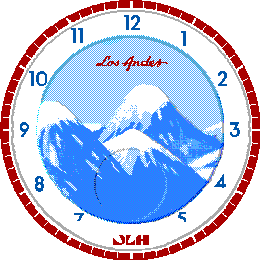
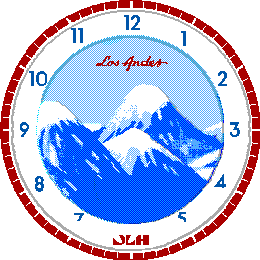
mod y clay config

Changed region(s): [[0.1538, 0.4, 0.8615, 0.8615], [0.8, 0.6154, 0.8308, 0.6462]]

diff --git a/src/pkjs/index.js b/src/pkjs/index.js
@@ -1,0 +1,3 @@
+var Clay = require('pebble-clay');
+var clayConfig = require('./config.json');
+var clay = new Clay(clayConfig);

diff --git a/src/c/main.c b/src/c/main.c
@@ -11,18 +11,23 @@ static Window  *s_window;
 static Layer   *s_canvas;
 static GPoint   s_center;
 static GBitmap *s_background;
+static GBitmap *s_indent;
 static GBitmap *s_battery_icon;
 
 // Fixed pivot for the seconds hand / battery display (not the watch center)
 #ifdef PBL_PLATFORM_EMERY
 static const GPoint SEC_CENTER = {100, 155};
+#elif defined(PBL_PLATFORM_BASALT)
+static const GPoint SEC_CENTER = {72, 136};
 #else
 static const GPoint SEC_CENTER = {130, 184};
 #endif
 
-// true  → seconds hand + tick marks
-// false → battery indicator (9 segments, 3 zones: red / dark-blue / white)
-static bool s_display_seconds = true;
+// 0 → seconds hand + tick marks
+// 1 → battery indicator
+// 2 → don't show (no subdial, no indent)
+#define PERSIST_KEY_SECONDS_FACE 1
+static int s_seconds_face_mode = 0;
 
 // Shake animation: hour does 1 revolution, minute does 3, over 6 seconds
 #define ANIM_DURATION_MS 3000
@@ -51,6 +56,15 @@ static GPoint s_hour_body_pts[] = {
 static GPoint s_hour_tip_pts[] = {
     { 6, -59},   { 3, -63},   { 2, -65},   {-2, -65},   {-3, -63},   {-6, -59},
 };
+#elif defined(PBL_PLATFORM_BASALT)
+// tip at -52, same width as minute hand (±4 body, ±2 base)
+static GPoint s_hour_body_pts[] = {
+    { 2,  -9},   { 4, -47},   {-4, -47},   {-2,  -9},
+    {-2,   9},   {-2,  20},   { 2,  20},   { 2,   9},
+};
+static GPoint s_hour_tip_pts[] = {
+    { 4, -47},   { 2, -50},   { 1, -52},   {-1, -52},   {-2, -50},   {-4, -47},
+};
 #else
 static GPoint s_hour_body_pts[] = {
     { 3,  -9},   { 5, -72},   {-5, -72},   {-3,  -9},
@@ -73,6 +87,15 @@ static GPoint s_min_body_pts[] = {
 };
 static GPoint s_min_tip_pts[] = {
     { 4, -82},   { 2, -87},   { 1, -90},   {-1, -90},   {-2, -87},   {-4, -82},
+};
+#elif defined(PBL_PLATFORM_BASALT)
+// tip at -72 → touches lateral border (72px from center)
+static GPoint s_min_body_pts[] = {
+    { 2,  -5},   { 4, -66},   {-4, -66},   {-2,  -5},
+    {-2,   5},   {-2,  16},   { 2,  16},   { 2,   5},
+};
+static GPoint s_min_tip_pts[] = {
+    { 4, -66},   { 2, -70},   { 1, -72},   {-1, -72},   {-2, -70},   {-4, -66},
 };
 #else
 static GPoint s_min_body_pts[] = {
@@ -165,14 +188,24 @@ static void draw_hour_hand(GContext *ctx, int32_t angle) {
         { 3, -9}, { 5,-59},   {-5,-59}, {-3, -9},
         {-3,  9}, {-3, 20},   {-3, 20}, { 3, 20},   { 3, 20}, { 3,  9},
     };
+#elif defined(PBL_PLATFORM_BASALT)
+    static const GPoint segs[] = {
+        { 2, -9}, { 4,-47},   {-4,-47}, {-2, -9},
+        {-2,  9}, {-2, 20},   {-2, 20}, { 2, 20},   { 2, 20}, { 2,  9},
+    };
 #else
     static const GPoint segs[] = {
         { 3, -9}, { 5,-72},   {-5,-72}, {-3, -9},
         {-3,  9}, {-3, 20},   {-3, 20}, { 3, 20},   { 3, 20}, { 3,  9},
     };
 #endif
+#ifdef PBL_PLATFORM_BASALT
+    outline_hand(ctx, angle, 7, 17 * TRIG_MAX_ANGLE / 360, segs, ARRAY_LENGTH(segs));
+    fill_hand(ctx, angle, s_hour_body, s_hour_tip, 7);
+#else
     outline_hand(ctx, angle, 10, 17 * TRIG_MAX_ANGLE / 360, segs, ARRAY_LENGTH(segs));
     fill_hand(ctx, angle, s_hour_body, s_hour_tip, 10);
+#endif
 }
 
 static void draw_min_hand(GContext *ctx, int32_t angle) {
@@ -182,6 +215,12 @@ static void draw_min_hand(GContext *ctx, int32_t angle) {
         {-2,  5}, {-2,  16},  {-2, 16}, { 2,  16},  { 2, 16}, { 2,  5},
     };
     outline_hand(ctx, angle, 8, 15 * TRIG_MAX_ANGLE / 360, segs, ARRAY_LENGTH(segs));
+#elif defined(PBL_PLATFORM_BASALT)
+    static const GPoint segs[] = {
+        { 2, -5}, { 4, -66},  {-4, -66},{-2,  -5},
+        {-2,  5}, {-2,  16},  {-2, 16}, { 2,  16},  { 2, 16}, { 2,  5},
+    };
+    outline_hand(ctx, angle, 5, 15 * TRIG_MAX_ANGLE / 360, segs, ARRAY_LENGTH(segs));
 #else
     static const GPoint segs[] = {
         { 3, -7}, { 5,-109},  {-5,-109},{-3,  -7},
@@ -189,17 +228,45 @@ static void draw_min_hand(GContext *ctx, int32_t angle) {
     };
     outline_hand(ctx, angle, 8, 22 * TRIG_MAX_ANGLE / 360, segs, ARRAY_LENGTH(segs));
 #endif
+#ifdef PBL_PLATFORM_BASALT
+    fill_hand(ctx, angle, s_min_body, s_min_tip, 5);
+#else
     fill_hand(ctx, angle, s_min_body, s_min_tip, 8);
+#endif
 }
 
 // ── Seconds hand ────────────────────────────────────────────────────────────
 
 static void draw_sec_hand(GContext *ctx, int32_t angle) {
+#ifdef PBL_PLATFORM_BASALT
+    GPoint cw  = rotate_at(GPoint(0,   5), angle, SEC_CENTER);
+    GPoint mid = rotate_at(GPoint(0, -17), angle, SEC_CENTER);
+    GPoint tip = rotate_at(GPoint(0, -19), angle, SEC_CENTER);
+
+    graphics_context_set_stroke_color(ctx, GColorLightGray);
+    graphics_context_set_stroke_width(ctx, 3);
+    graphics_draw_line(ctx, SEC_CENTER, cw);
+    graphics_context_set_stroke_width(ctx, 2);
+    graphics_draw_line(ctx, SEC_CENTER, mid);
+    graphics_draw_line(ctx, mid, tip);
+
+    graphics_context_set_stroke_color(ctx, GColorWhite);
+    graphics_context_set_stroke_width(ctx, 2);
+    graphics_draw_line(ctx, SEC_CENTER, cw);
+    graphics_context_set_stroke_width(ctx, 1);
+    graphics_draw_line(ctx, SEC_CENTER, mid);
+    graphics_draw_line(ctx, mid, tip);
+
+    graphics_context_set_fill_color(ctx, GColorWhite);
+    graphics_fill_circle(ctx, SEC_CENTER, 2);
+    graphics_context_set_fill_color(ctx, GColorDarkGray);
+    graphics_fill_circle(ctx, SEC_CENTER, 1);
+#else
     GPoint cw  = rotate_at(GPoint(0,   9), angle, SEC_CENTER);
     GPoint mid = rotate_at(GPoint(0, -30), angle, SEC_CENTER);
     GPoint tip = rotate_at(GPoint(0, -34), angle, SEC_CENTER);
 
-    // Outline pass 
+    // Outline pass
     graphics_context_set_stroke_color(ctx, GColorLightGray);
     graphics_context_set_stroke_width(ctx, 5);
     graphics_draw_line(ctx, SEC_CENTER, cw);
@@ -222,6 +289,7 @@ static void draw_sec_hand(GContext *ctx, int32_t angle) {
     graphics_fill_circle(ctx, SEC_CENTER, 3);
     graphics_context_set_fill_color(ctx, GColorDarkGray);
     graphics_fill_circle(ctx, SEC_CENTER, 1);
+#endif
 }
 
 // ── Battery indicator ───────────────────────────────────────────────────────
@@ -245,10 +313,17 @@ static void draw_battery_display(GContext *ctx) {
         int32_t a  = (start + b * step + TRIG_MAX_ANGLE) % TRIG_MAX_ANGLE;
         int32_t sn = sin_lookup(a);
         int32_t cn = cos_lookup(a);
+#ifdef PBL_PLATFORM_BASALT
+        GPoint inner = { SEC_CENTER.x + trig_round(sn * 19),
+                         SEC_CENTER.y - trig_round(cn * 19) };
+        GPoint outer = { SEC_CENTER.x + trig_round(sn * 23),
+                         SEC_CENTER.y - trig_round(cn * 23) };
+#else
         GPoint inner = { SEC_CENTER.x + trig_round(sn * 34),
                          SEC_CENTER.y - trig_round(cn * 34) };
         GPoint outer = { SEC_CENTER.x + trig_round(sn * 40),
                          SEC_CENTER.y - trig_round(cn * 40) };
+#endif
         graphics_draw_line(ctx, inner, outer);
     }
 
@@ -261,8 +336,13 @@ static void draw_battery_display(GContext *ctx) {
         int32_t a  = (start + label_segs[i] * step + TRIG_MAX_ANGLE) % TRIG_MAX_ANGLE;
         int32_t sn = sin_lookup(a);
         int32_t cn = cos_lookup(a);
+#ifdef PBL_PLATFORM_BASALT
+        int16_t tx = SEC_CENTER.x + trig_round(sn * 10);
+        int16_t ty = SEC_CENTER.y - trig_round(cn * 10);
+#else
         int16_t tx = SEC_CENTER.x + trig_round(sn * 18);
         int16_t ty = SEC_CENTER.y - trig_round(cn * 18);
+#endif
         graphics_draw_text(ctx, label_texts[i], small_font,
                            GRect(tx - 10, ty - 5, 20, 10),
                            GTextOverflowModeWordWrap, GTextAlignmentCenter, NULL);
@@ -328,9 +408,15 @@ static void canvas_update_proc(Layer *layer, GContext *ctx) {
         graphics_fill_rect(ctx, bounds, 0, GCornerNone);
     }
 
+    if (s_indent && s_seconds_face_mode != 2) {
+        graphics_context_set_compositing_mode(ctx, GCompOpSet);
+        graphics_draw_bitmap_in_rect(ctx, s_indent, bounds);
+    }
+
     time_t now = time(NULL);
     struct tm *t = localtime(&now);
     if (!t) return;
+    // t->tm_hour = 11; t->tm_min = 37; t->tm_sec = 6;
 
     int32_t hour_angle, min_angle;
     int32_t sec_angle = t->tm_sec * TRIG_MAX_ANGLE / 30;
@@ -348,22 +434,30 @@ static void canvas_update_proc(Layer *layer, GContext *ctx) {
         min_angle  =  t->tm_min  * TRIG_MAX_ANGLE / 60;
     }
 
+   
     // ── Seconds / battery layer (below hour and minute hands) ────────────────
-    if (s_display_seconds) {
+    if (s_seconds_face_mode == 0) {
         graphics_context_set_stroke_color(ctx, GColorWhite);
         graphics_context_set_stroke_width(ctx, 1);
         for (int i = 0; i < 12; i++) {
             int32_t a = i * TRIG_MAX_ANGLE / 12;
             int32_t s = sin_lookup(a);
             int32_t c = cos_lookup(a);
+#ifdef PBL_PLATFORM_BASALT
+            GPoint inner = { SEC_CENTER.x + trig_round(s * 16),
+                             SEC_CENTER.y - trig_round(c * 16) };
+            GPoint outer = { SEC_CENTER.x + trig_round(s * 19),
+                             SEC_CENTER.y - trig_round(c * 19) };
+#else
             GPoint inner = { SEC_CENTER.x + trig_round(s * 28),
                              SEC_CENTER.y - trig_round(c * 28) };
             GPoint outer = { SEC_CENTER.x + trig_round(s * 33),
                              SEC_CENTER.y - trig_round(c * 33) };
+#endif
             graphics_draw_line(ctx, inner, outer);
         }
         draw_sec_hand(ctx, sec_angle);
-    } else {
+    } else if (s_seconds_face_mode == 1) {
         draw_battery_display(ctx);
     }
 
@@ -373,9 +467,15 @@ static void canvas_update_proc(Layer *layer, GContext *ctx) {
 
     // Center axle dot for hour/minute
     graphics_context_set_fill_color(ctx, GColorDarkGray);
+#ifdef PBL_PLATFORM_BASALT
+    graphics_fill_circle(ctx, s_center, 3);
+    graphics_context_set_fill_color(ctx, GColorLightGray);
+    graphics_fill_circle(ctx, GPoint(s_center.x - 1, s_center.y - 1), 1);
+#else
     graphics_fill_circle(ctx, s_center, 4);
     graphics_context_set_fill_color(ctx, GColorLightGray);
     graphics_fill_circle(ctx, GPoint(s_center.x - 2, s_center.y - 2), 1);
+#endif
 }
 
 // ============================================================================
@@ -400,6 +500,7 @@ static void window_load(Window *window) {
     layer_add_child(root, s_canvas);
 
     s_background   = gbitmap_create_with_resource(RESOURCE_ID_BACKGROUND);
+    s_indent       = gbitmap_create_with_resource(RESOURCE_ID_INDENT);
     s_battery_icon = gbitmap_create_with_resource(RESOURCE_ID_BATTERY_ICON);
 
     s_hour_body = gpath_create(&(GPathInfo){ ARRAY_LENGTH(s_hour_body_pts), s_hour_body_pts });
@@ -414,8 +515,26 @@ static void window_unload(Window *window) {
     if (s_min_body)   { gpath_destroy(s_min_body);   s_min_body   = NULL; }
     if (s_min_tip)    { gpath_destroy(s_min_tip);    s_min_tip    = NULL; }
     if (s_background)   { gbitmap_destroy(s_background);   s_background   = NULL; }
+    if (s_indent)       { gbitmap_destroy(s_indent);       s_indent       = NULL; }
     if (s_battery_icon) { gbitmap_destroy(s_battery_icon); s_battery_icon = NULL; }
     if (s_canvas)     { layer_destroy(s_canvas);        s_canvas     = NULL; }
+}
+
+// ============================================================================
+// ============================================================================
+// APP MESSAGE
+// ============================================================================
+
+static void inbox_received(DictionaryIterator *iter, void *context) {
+    Tuple *t = dict_find(iter, MESSAGE_KEY_SECONDS_FACE);
+    if (t) {
+        int mode = (int)atoi(t->value->cstring);
+        if (mode < 0) mode = 0;
+        if (mode > 2) mode = 2;
+        s_seconds_face_mode = mode;
+        persist_write_int(PERSIST_KEY_SECONDS_FACE, mode);
+        if (s_canvas) layer_mark_dirty(s_canvas);
+    }
 }
 
 // ============================================================================
@@ -423,6 +542,10 @@ static void window_unload(Window *window) {
 // ============================================================================
 
 static void init(void) {
+    if (persist_exists(PERSIST_KEY_SECONDS_FACE)) {
+        s_seconds_face_mode = persist_read_int(PERSIST_KEY_SECONDS_FACE);
+    }
+
     s_window = window_create();
     window_set_window_handlers(s_window, (WindowHandlers){
         .load   = window_load,
@@ -431,6 +554,9 @@ static void init(void) {
     window_stack_push(s_window, true);
     tick_timer_service_subscribe(SECOND_UNIT, tick_handler);
     accel_tap_service_subscribe(accel_tap_handler);
+
+    app_message_register_inbox_received(inbox_received);
+    app_message_open(64, 64);
 }
 
 static void deinit(void) {
